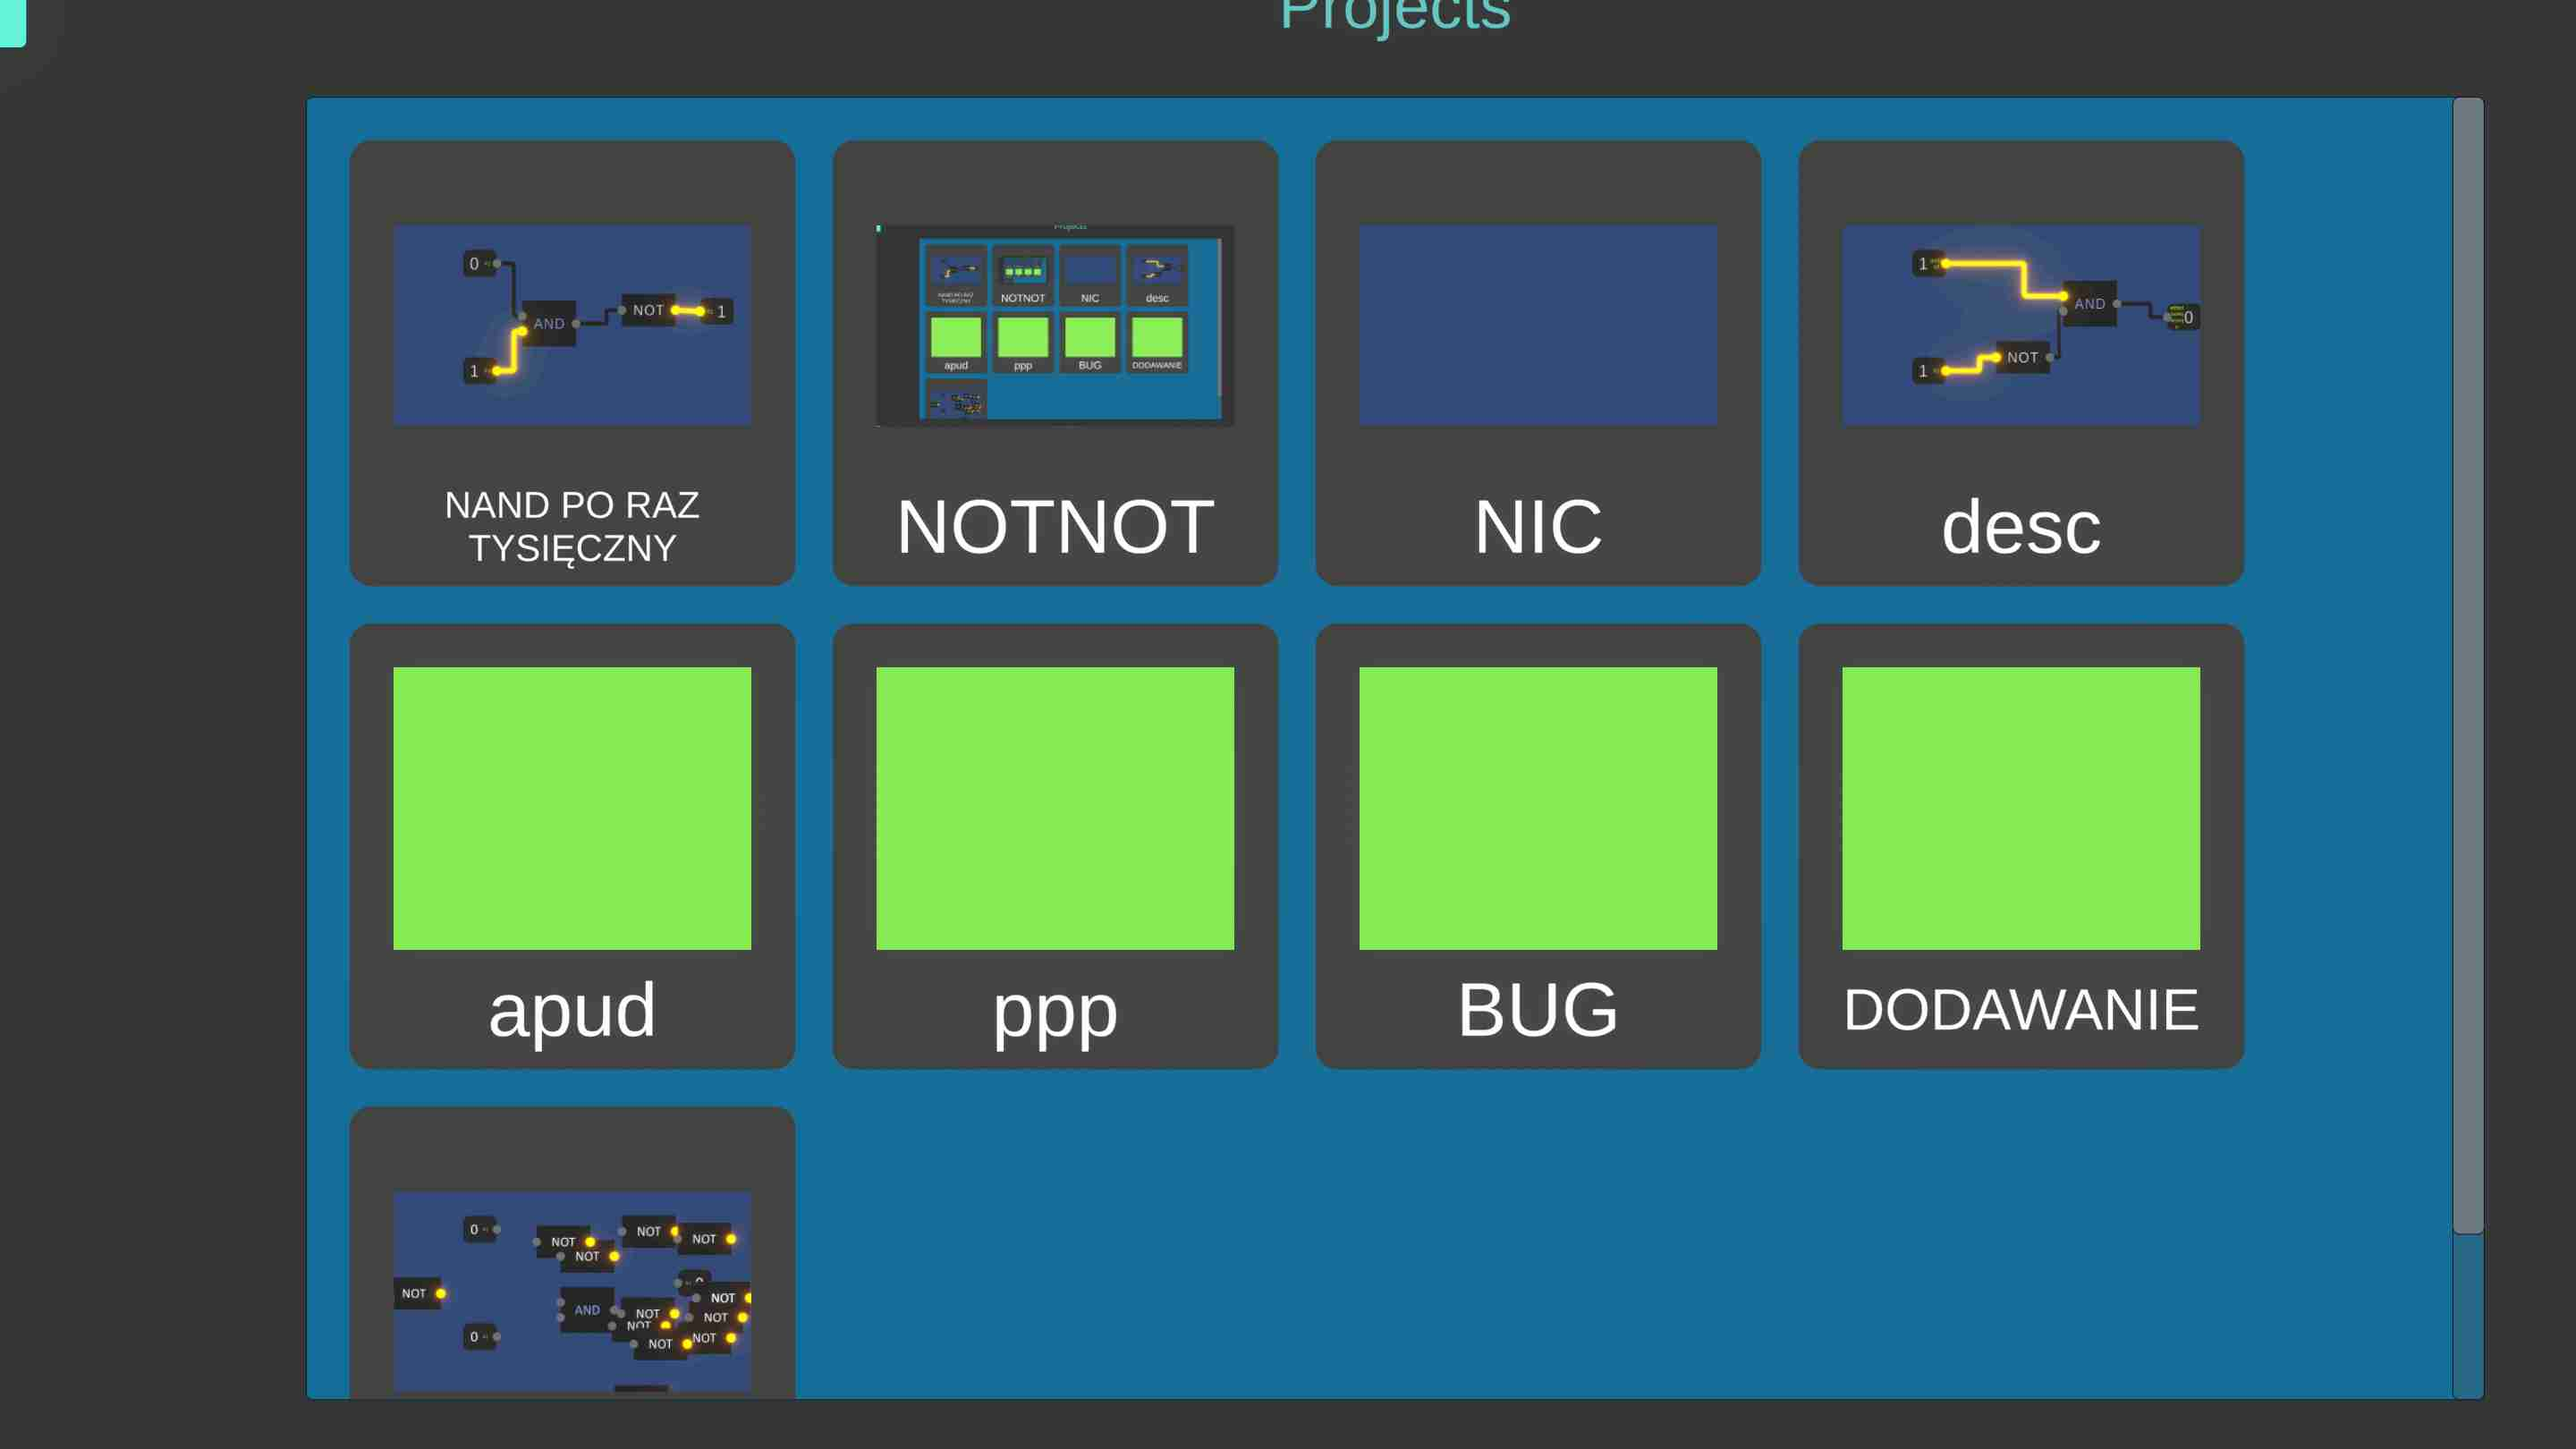
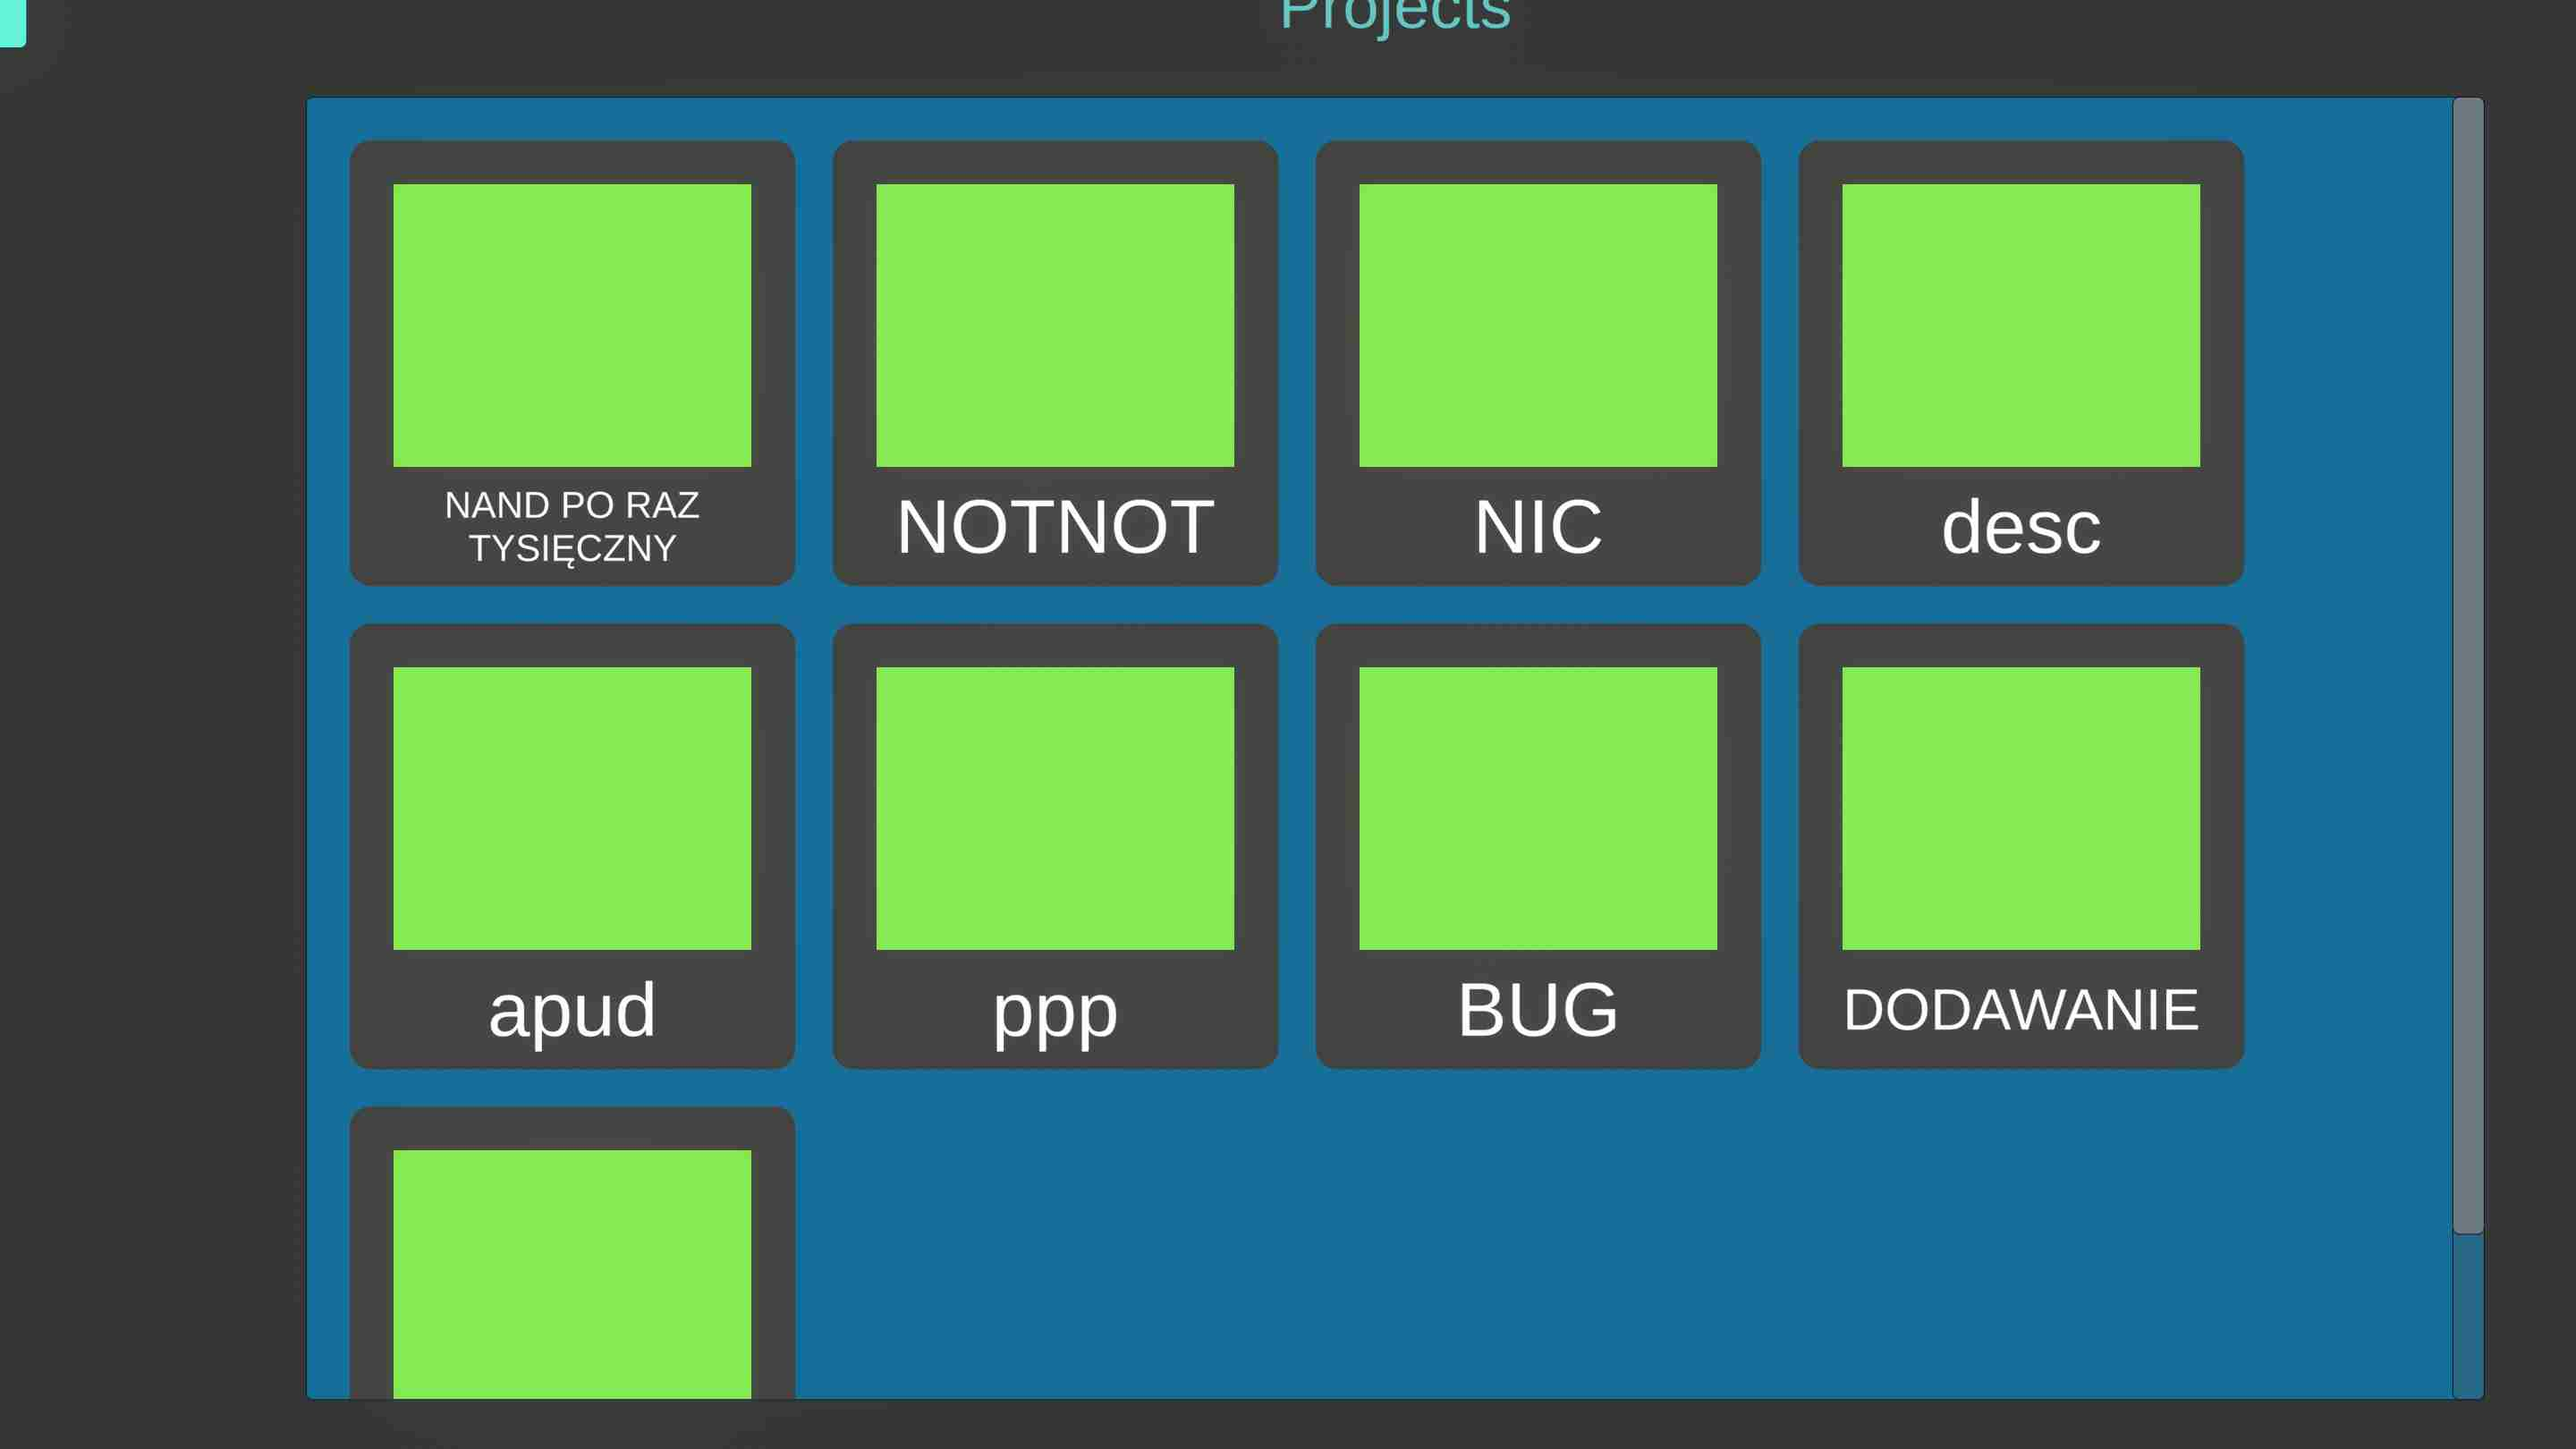
upd

Changed region(s): [[0.125, 0.1235, 0.875, 0.3395], [0.125, 0.7716, 0.3125, 0.9877]]

diff --git a/S/Assets/Scripts/UI/SelectProject/SelectProjectMenuController.cs b/S/Assets/Scripts/UI/SelectProject/SelectProjectMenuController.cs
@@ -21,16 +21,17 @@ public class SelectProjectMenuController : MonoBehaviour
             button.GetComponentInChildren<TextMeshProUGUI>().text = project.defaultName;
 
 
-            var tex = Helper.LoadPNG(Application.dataPath + $"/thumb/thumb{id}.jpg");
-            if (tex != null)
-            {
-                var img = button.transform.GetChild(0).GetComponent<Image>();
-                var spr = Sprite.Create(tex, new Rect(0, 0, tex.width, tex.height), new Vector2(0.5f, 0.5f));
-                img.overrideSprite = spr;
-                img.type = Image.Type.Filled;
-                img.preserveAspect = true;
-                img.color = Color.white;
-            }
+            //var tex = Helper.LoadPNG(Application.dataPath + $"/thumb/thumb{id}.jpg");
+            //if (tex != null)
+            //{
+            //    var img = button.transform.GetChild(0).GetComponent<Image>();
+            //    var spr = Sprite.Create(tex, new Rect(0, 0, tex.width, tex.height), new Vector2(0.5f, 0.5f));
+            //    img.overrideSprite = spr;
+            //    img.type = Image.Type.Filled;
+            //    img.preserveAspect = true;
+            //    img.color = Color.white;
+            //}
+
             //var img = button.transform.GetChild(0).GetComponent<Image>(); [TODO] ewentualnie
 
 

diff --git a/S/Assets/Scripts/NodeManager.cs b/S/Assets/Scripts/NodeManager.cs
@@ -253,8 +253,6 @@ public static class NodeManager //: Singleton<NodeManager>
 
         inputNodes.Clear();
         outputNodes.Clear();//na wszelki wypadek ale to i tak jest niby juz puste
-
-        UnsavedChanges = true;
     }
     private static GateTemplate GetTemplateFromAll(bool saveInputVals = false)
     {
